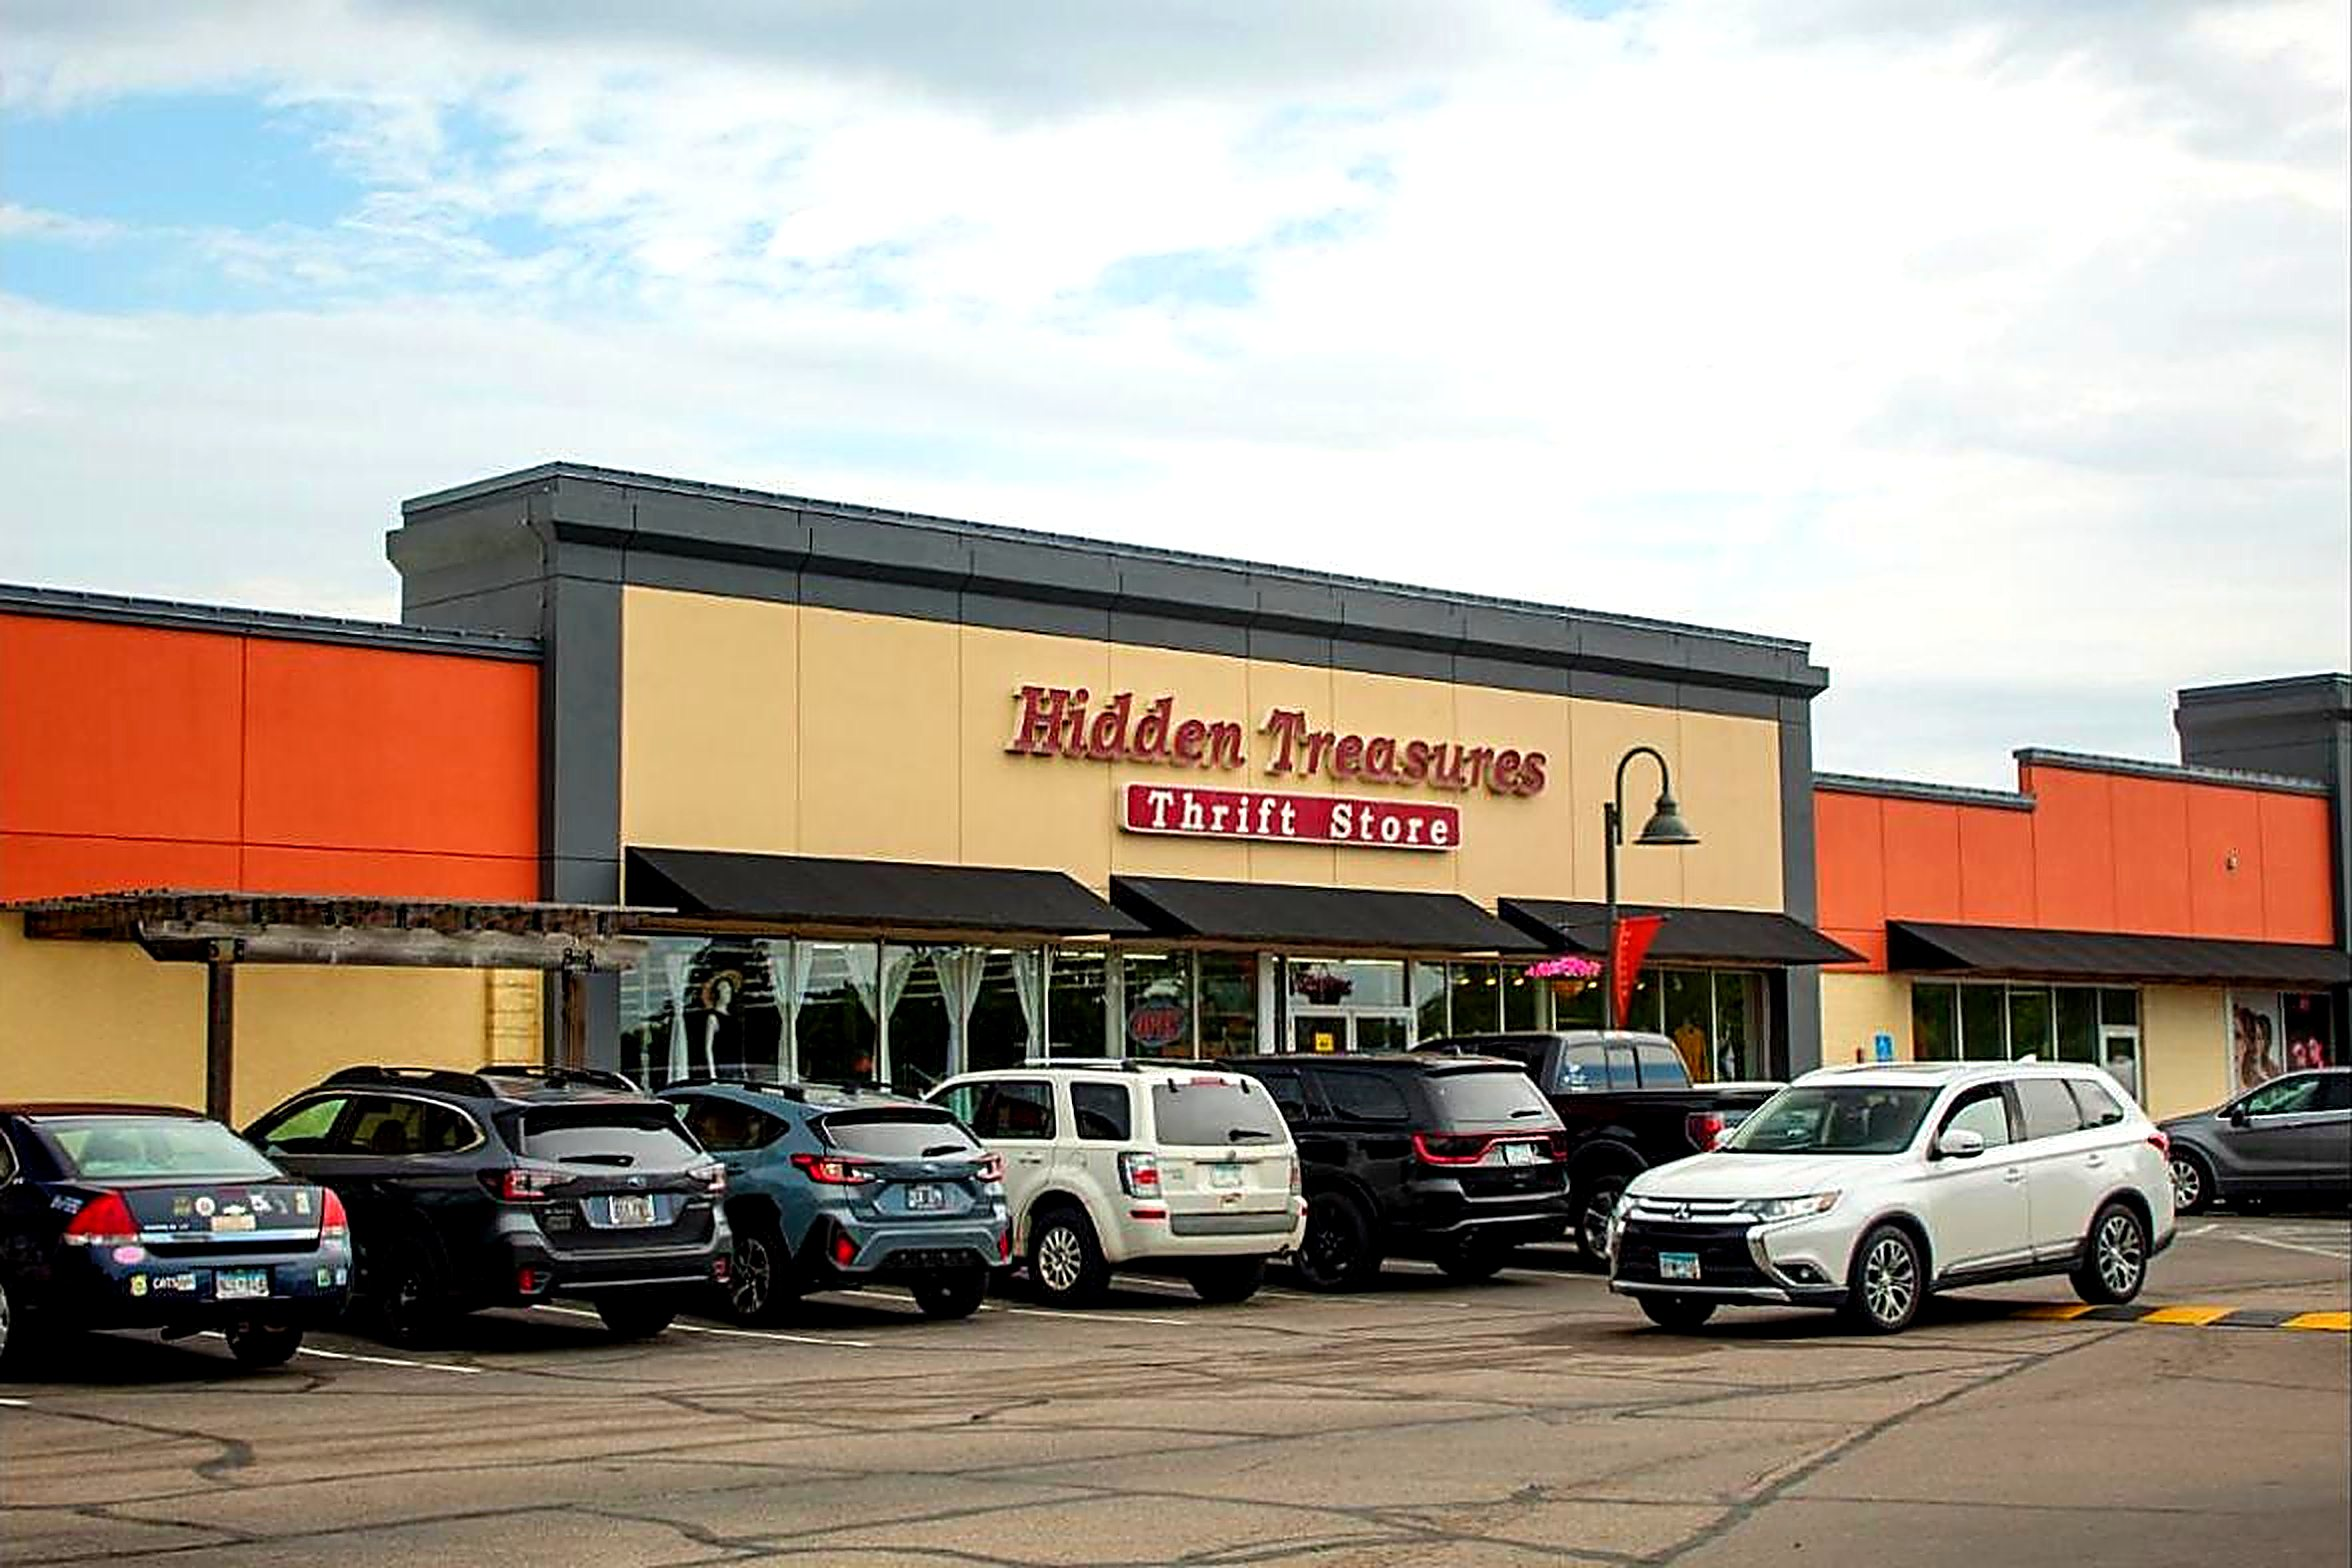
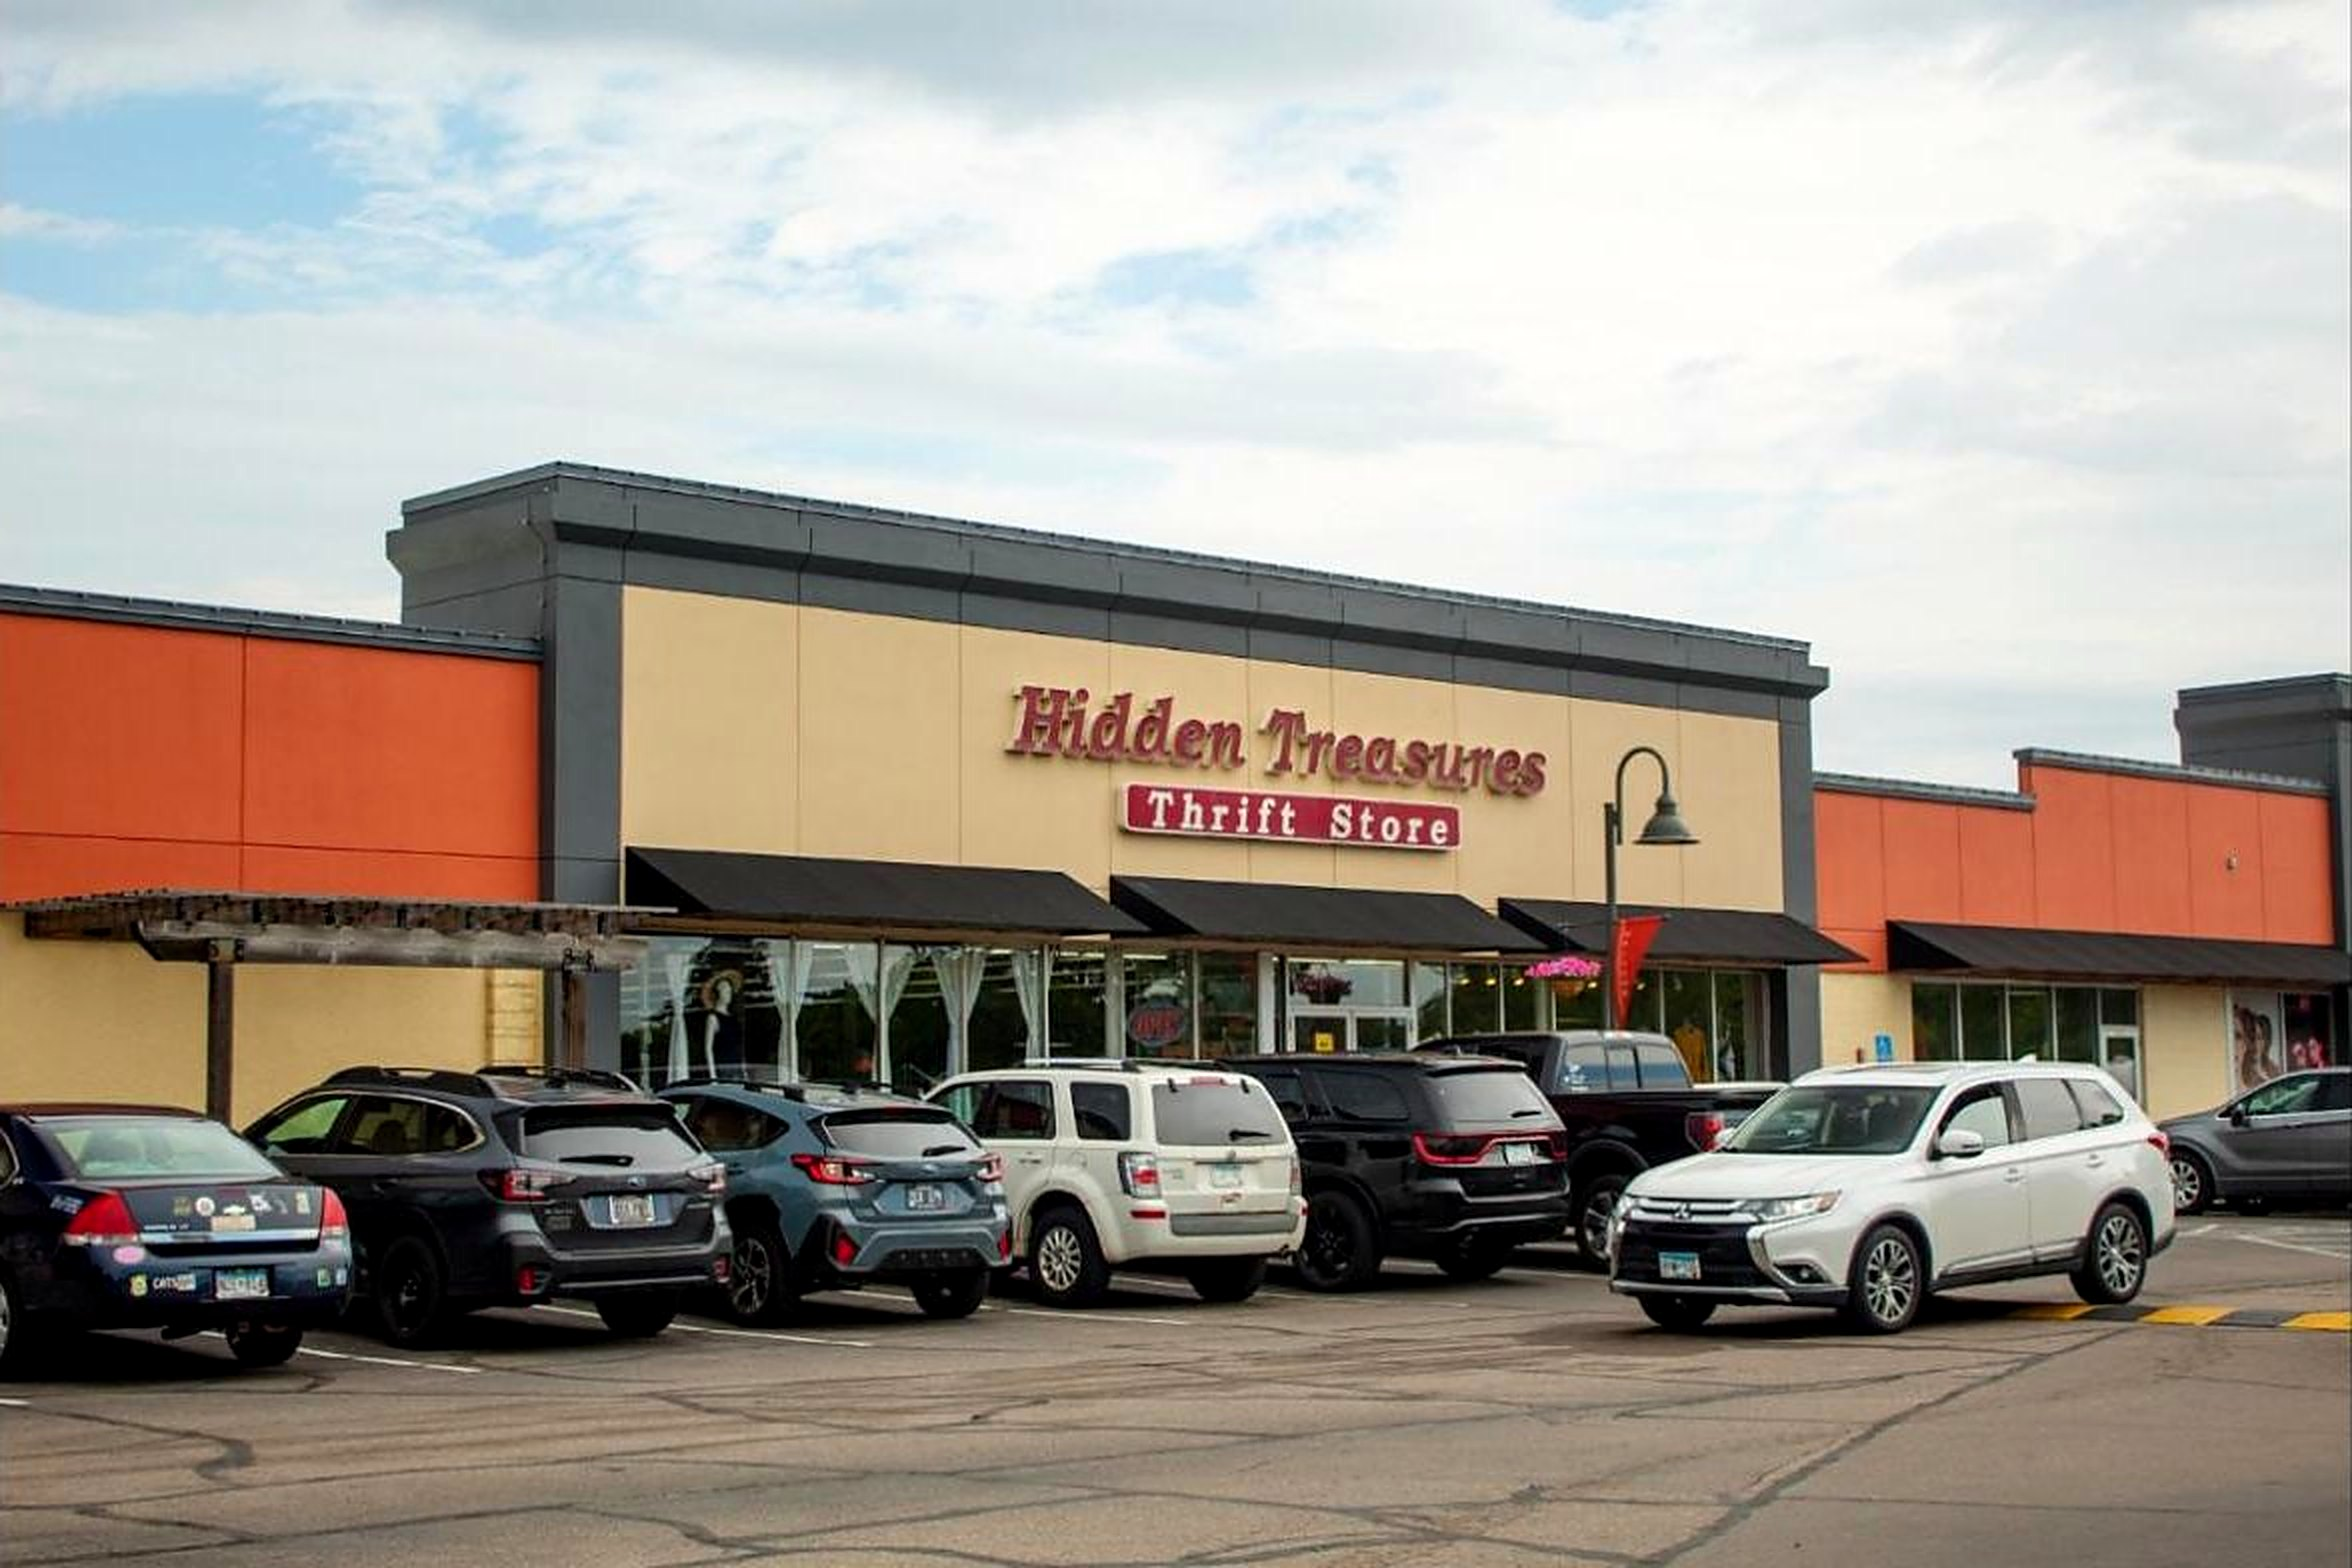
Tone down the hero photo, show the parked cars, and darken slider controls
Claude-Session: https://claude.ai/code/session_0166P3f9vnDYZGPQfP953hFz

diff --git a/src/styles/global.css b/src/styles/global.css
@@ -575,7 +575,7 @@ details.faq p { margin: 0 0 22px; font-size: 16px; line-height: 1.65; color: var
   .hero { height: clamp(420px, calc(100svh - 242px), 820px); }
   .hero .h1 { font-size: clamp(40px, min(6vw, 8vh), 72px); }
   .slide .inner { padding-bottom: 112px; }
-  .slide .bg { width: 122%; object-position: center 42%; }
+  .slide .bg { width: 122%; object-position: center 54%; }
   .slide .copy p.body { max-width: 30ch; }
   .slide .copy p.body { font-size: clamp(16px, 2.3vh, 19px); margin: clamp(12px, 2.4vh, 22px) 0 clamp(18px, 3.4vh, 34px); }
   .hero-ctrl { justify-content: flex-end; gap: 20px; bottom: 118px; }
@@ -586,3 +586,7 @@ details.faq p { margin: 0 0 22px; font-size: 16px; line-height: 1.65; color: var
   .site-header .logo img { height: 50px; }
   .hero { height: clamp(420px, calc(100svh - 230px), 820px); }
 }
+/* Slider controls stay readable over bright parts of a photo */
+.hero .iconbtn { background: rgba(35, 31, 27, .5); backdrop-filter: blur(6px); }
+.hero .iconbtn:hover { background: rgba(35, 31, 27, .75); }
+.hero .dot .track { background: rgba(255, 255, 255, .5); box-shadow: 0 0 0 1px rgba(35, 31, 27, .25); }
